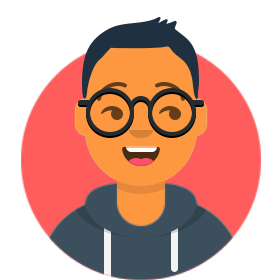
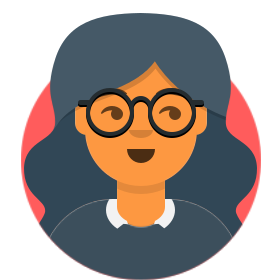
bug fix in beard detection

diff --git a/avatar.py b/avatar.py
@@ -17,7 +17,7 @@ from rembg import remove
 from PIL import Image
 import mediapipe as mp
 
-input_path = "sample6.jpg"
+input_path = "sample8.png"
 output_path = "refined_image.png"
 
 with open(input_path, "rb") as input_file:
@@ -222,79 +222,84 @@ face_mesh.close()
 
 
 
-# Beard level code
 def detect_beard_level(image_path_refined):
-    # Load pre-trained face detection model (Haar cascades or DNN model)
-    
-    
-    face_cascade = cv2.CascadeClassifier(cv2.data.haarcascades + 'haarcascade_frontalface_default.xml')
-
     # Load the image
     img = cv2.imread(image_path_refined)
-    gray = cv2.cvtColor(img, cv2.COLOR_BGR2GRAY)
+    img_rgb = cv2.cvtColor(img, cv2.COLOR_BGR2RGB)
 
-    # Detect faces
-    faces = face_cascade.detectMultiScale(gray, scaleFactor=1.1, minNeighbors=5, minSize=(30, 30))
+    # Initialize Mediapipe Face Mesh
+    mp_face_mesh = mp.solutions.face_mesh
+    with mp_face_mesh.FaceMesh(static_image_mode=True, max_num_faces=1, min_detection_confidence=0.5) as face_mesh:
+        results = face_mesh.process(img_rgb)
 
-    if len(faces) == 0:
-        return "No face detected"
+        if not results.multi_face_landmarks:
+            return "No face detected"
 
-    # Initialize beard intensity levels
-    beard_level = "No Beard"
+        # Initialize beard intensity levels
+        beard_level = "No Beard"
+        h, w, _ = img.shape  # Get image dimensions
 
-    for (x, y, w, h) in faces:
-        shift_ratio = int(w * 0.5)  # Adjust the value between 0 and 1 for the amount of shift (e.g., 20%)
-        shift = int(w * 0.2)
-        shift_pixels = int(w * shift_ratio)
+        for face_landmarks in results.multi_face_landmarks:
+            # Extract coordinates for the lower face region
+            lower_face_points = [152, 377, 400, 378, 379, 365, 397, 288, 361, 323, 324, 91, 181, 146]
+            lower_face_coords = []
 
-        # Crop the face region
-        face_region = gray[y:y + h, x - shift:x + shift_ratio]
-        # face_region = gray[y:y + h, x:x + w] basic
-        # cv.imwrite("face_Region.png", face_region)
-        # Focus on lower half of the face (where beard typically is)
-        lower_face_region = face_region[h // 3:h:, :]
-        # cv.imwrite("lower_face.png", lower_face_region)
-        # Use edge detection to highlight beard intensity
-        edges = cv2.Canny(lower_face_region, threshold1=50, threshold2=150)
+            for point in lower_face_points:
+                x = int(face_landmarks.landmark[point].x * w)
+                y = int(face_landmarks.landmark[point].y * h)
+                lower_face_coords.append((x, y))
 
-        # Calculate beard density
-        beard_density = np.sum(edges) / (lower_face_region.size)
-        print("Beard Density:", beard_density)
+            # Create a mask for the lower face region
+            mask = np.zeros((h, w), dtype=np.uint8)
+            cv2.fillPoly(mask, [np.array(lower_face_coords, dtype=np.int32)], 255)
 
-        # Categorize beard density
-        if beard_density < 37.0:
-            beard_level = "DEFAULT"
-        elif beard_density < 60.0:
-            beard_level = "BEARD_LIGHT"
-        elif beard_density < 70.0:
-            beard_level = "BEARD_MEDIUM"
-        else:
-            beard_level = "BEARD_HEAVY"
+            # Extract the lower face region
+            lower_face_region = cv2.bitwise_and(img, img, mask=mask)
+            gray_lower_face = cv2.cvtColor(lower_face_region, cv2.COLOR_BGR2GRAY)
 
-        # Draw rectangle around face and display beard level
-        cv2.rectangle(img, (x, y), (x + w, y + h), (255, 0, 0), 2)
-        cv2.putText(img, beard_level, (x, y - 10), cv2.FONT_HERSHEY_SIMPLEX, 0.9, (36, 255, 12), 2)
+            # Edge detection to analyze beard density
+            edges = cv2.Canny(gray_lower_face, threshold1=50, threshold2=150)
 
+            # Calculate beard density
+            beard_density = np.sum(edges) / (np.count_nonzero(mask))
+            print("Beard Density:", beard_density)
+
+            # Categorize beard density
+            if beard_density < 35.0:
+                beard_level = "DEFAULT"
+            elif beard_density < 50.0:
+                beard_level = "BEARD_LIGHT"
+            elif beard_density < 60.0:
+                beard_level = "BEARD_MEDIUM"
+            else:
+                beard_level = "BEARD_HEAVY"
+
+            # Draw a polygon around the lower face region and display beard level
+            cv2.polylines(img, [np.array(lower_face_coords, dtype=np.int32)], isClosed=True, color=(255, 0, 0), thickness=2)
+            cv2.putText(img, beard_level, (lower_face_coords[0][0], lower_face_coords[0][1] - 10),
+                        cv2.FONT_HERSHEY_SIMPLEX, 0.9, (36, 255, 12), 2)
+
+    
 
     return beard_level
 
 
-# Input image path
-
 
 # Detect beard level
 beard_level = detect_beard_level(image_path_refined)
-# print("Beard Level:", beard_level)
+print("Beard Level:", beard_level)
 
-# mapping 
+# Beard level mapping
 beard_mapping = {
     "DEFAULT": pa.FacialHairType.DEFAULT,
     "BEARD_LIGHT": pa.FacialHairType.BEARD_LIGHT,
     "BEARD_MEDIUM": pa.FacialHairType.BEARD_MEDIUM,
     "BEARD_MAJESTIC": pa.FacialHairType.BEARD_MAJESTIC
 }
- 
-chosen_beard_level = beard_mapping.get(beard_level, pa.FacialHairType.DEFAULT)
+
+chosen_beard_level = beard_mapping.get(beard_level, "FacialHairType.DEFAULT")
+print("Chosen Beard Level:", chosen_beard_level)
+
 
 # mouth type code
 emotion_to_mouth_type = {
@@ -378,8 +383,7 @@ LONG_HAIR_FEMALE = [
     "LONG_HAIR_CURVY",
     "LONG_HAIR_CURLY",
     "LONG_HAIR_BIG_HAIR",
-    "LONG_HAIR_FRIDA",
-    "LONG_HAIR_DREADS"
+    "LONG_HAIR_FRIDA"
 ]
 
 # Mapping of hair styles to topType (using the name of the hairstyle directly)
@@ -402,7 +406,6 @@ hair_style_map = {
     "LONG_HAIR_CURLY": pa.TopType.LONG_HAIR_CURLY,
     "LONG_HAIR_BIG_HAIR": pa.TopType.LONG_HAIR_BIG_HAIR,
     "LONG_HAIR_FRIDA": pa.TopType.LONG_HAIR_FRIDA,
-    "LONG_HAIR_DREADS": pa.TopType.LONG_HAIR_DREADS,
 
 }
 
